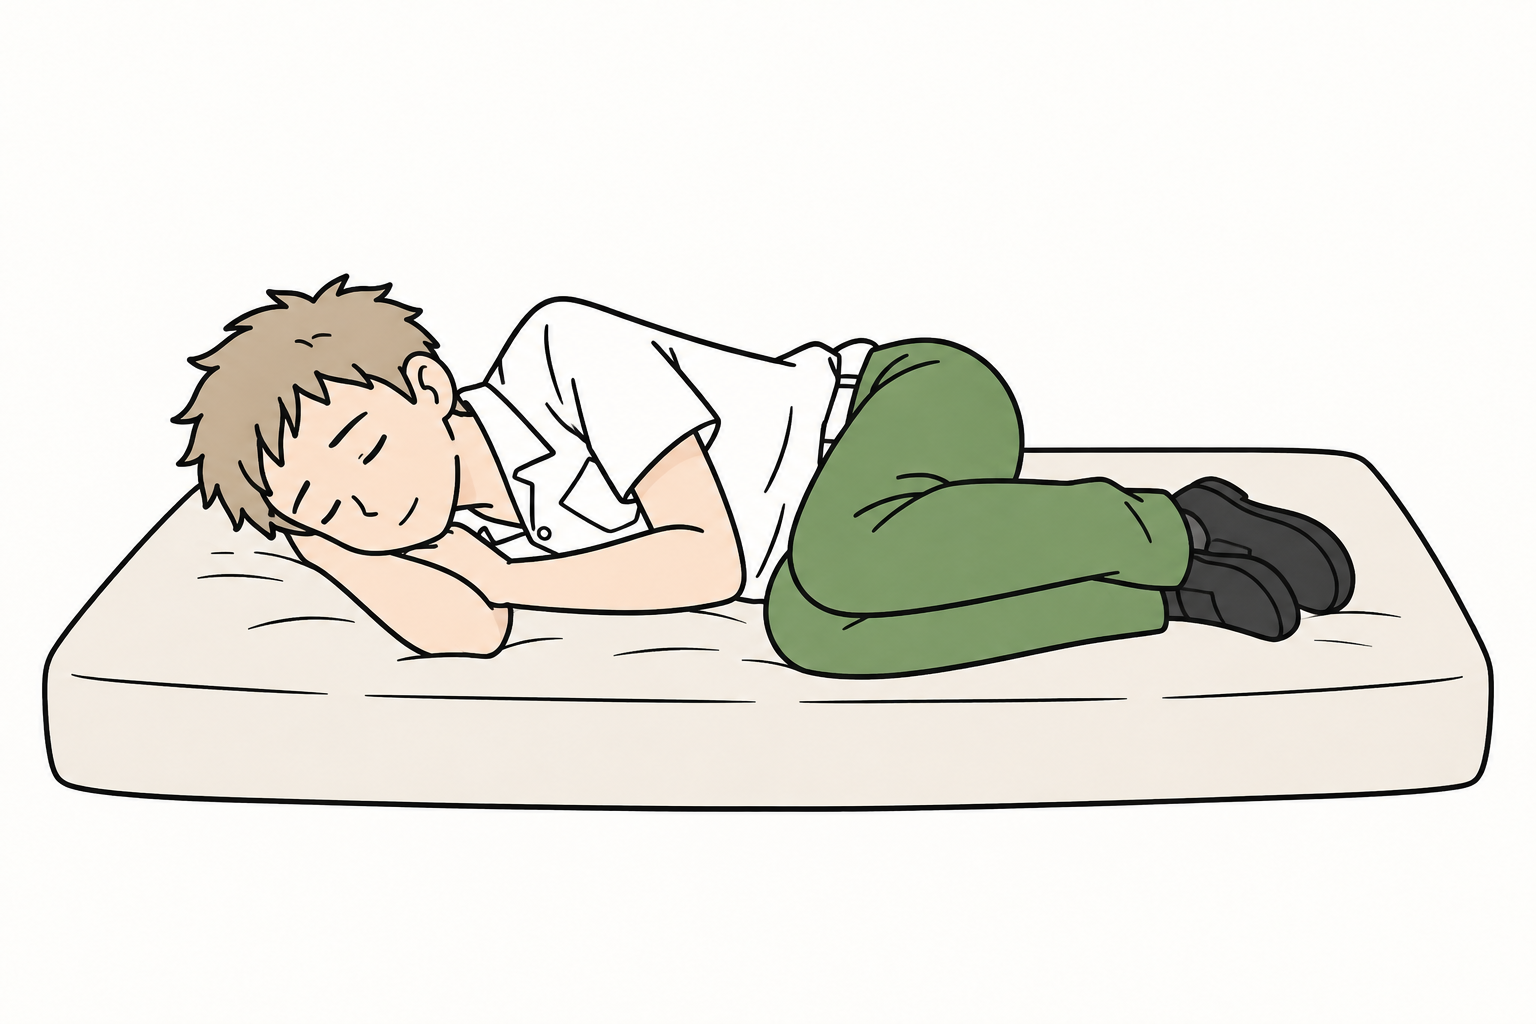
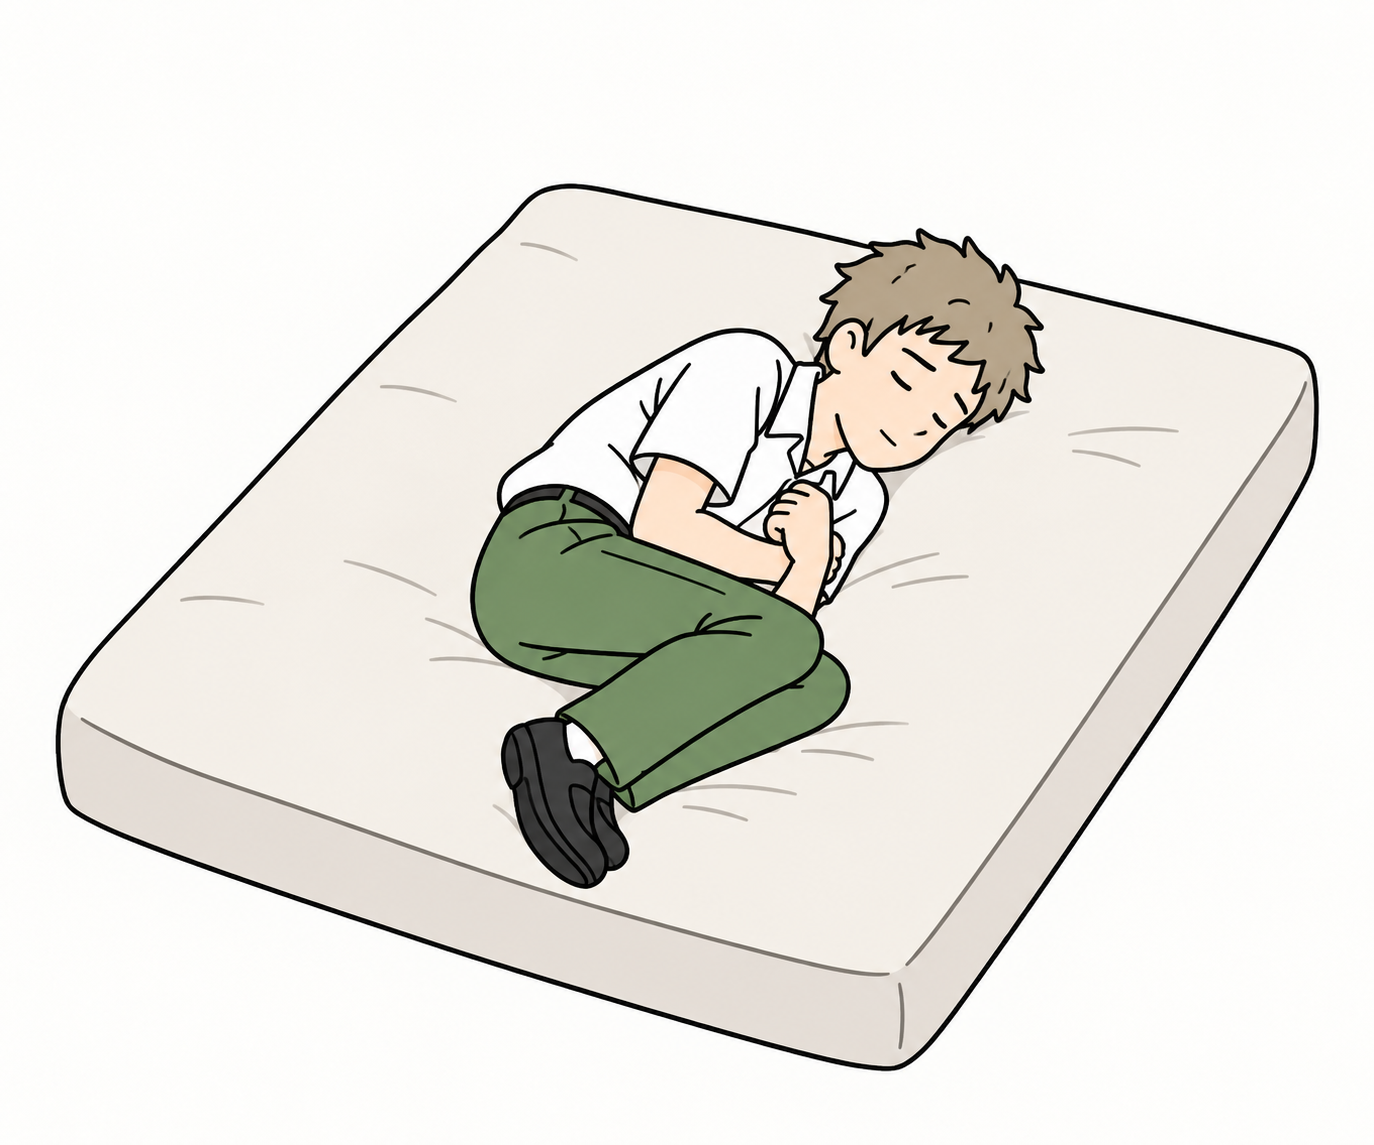
Initial Project

diff --git a/assets/characters/CHAR_05_Huang_Ming/action_review.md b/assets/characters/CHAR_05_Huang_Ming/action_review.md
@@ -4,21 +4,19 @@ Status: REVIEW_REQUIRED
 
 Compared against the approved `portrait.png`, `22.jpg`, and the requirements for `SHOT_039`.
 
-- **Side-lying pose fidelity to 22.jpg:** PASS. Huang Ming lies horizontally on his side on the mattress, with the head and shoulders lowered close to the support.
-- **Curled / fetal-like body silhouette:** PASS. The torso, bent knees, and tucked limbs form a compact but believable inward curl.
-- **Horizontal body orientation:** PASS. The body reads immediately as lying down, not seated or upright.
-- **Bent-knee geometry:** PASS. Both knees bend naturally toward the torso while preserving believable leg proportions.
-- **Arm placement:** PASS. The arms are folded/tucked naturally near the chest and mattress in a simple readable arrangement.
-- **Head and shoulder relaxation:** PASS. The neck, head, and shoulders are lowered and relaxed in the side-lying posture.
-- **Relieved / released facial expression:** PASS. Soft eyes, a softened brow, and a subtle peaceful mouth communicate relief and release.
-- **Peaceful emotional tone:** PASS. The pose reads as finally comfortable and free from pressure, without sadness, fear, or energetic cheerfulness.
-- **Huang Ming identity preservation:** PASS. The approved face identity, pale brown messy-short hair, youthful age, and simplified proportions are preserved.
-- **Clothing consistency:** PASS. The white short-sleeved collared shirt with chest pocket, green trousers, and dark shoes remain consistent, with natural side-lying folds.
-- **Mattress-support restraint:** PASS. Only one plain low-detail temporary pale mattress is present; no canonical mattress stack was generated.
-- **Suitability for later placement on PROP_06_MATTRESS_STACK:** PASS. The character and temporary support are isolated and the action can be transferred to the later canonical prop.
-- **Suitability for SHOT_039:** PASS. The action clearly communicates Huang Ming resting peacefully after a difficult life.
-- **Overall style consistency:** PASS. Clean 2D cartoon line art, black outlines, restrained flat colors, minimal shading, and low detail match the established production style.
+- **Directional pose fidelity to 22.jpg:** PASS. The body follows the source's directional flow: the head is toward the upper-right, the torso flows down-left, and the bent knees and feet curl toward the lower-left.
+- **Accidental mirroring check:** PASS. The pose is intentionally not mirrored into the previous head-left / feet-right arrangement; its head-to-leg direction matches the source reference.
+- **Side-lying body orientation:** PASS. Huang Ming lies on his side on the mattress with a low head and lowered shoulders; the body is not upright or seated.
+- **Curled leg geometry:** PASS. The knees are bent toward the torso and the legs form a compact inward fetal-like curl while retaining believable proportions.
+- **Head / shoulder placement:** PASS. The head is low near the mattress and the shoulders follow the relaxed side-lying posture.
+- **Relaxed relieved expression:** PASS. Softly closed eyes, softened facial muscles, and a subtle peaceful expression communicate relief and release without broad smiling or distress.
+- **Huang Ming identity preservation:** PASS. Light brown short messy hair, youthful face identity, and approved simplified proportions are preserved.
+- **Clothing consistency:** PASS. The white short-sleeved collared shirt with chest pocket, green trousers, and dark shoes remain consistent.
+- **Huang Ming only:** PASS. No Ah Da or other character is present; this remains a character action master rather than a full scene.
+- **Temporary mattress-support restraint:** PASS. One simple temporary pale mattress supports the body; no final mattress stack was generated.
+- **Suitability for later placement into SHOT_039:** PASS. The isolated side-lying action can be placed onto the canonical mattress-stack prop later.
+- **Overall style consistency:** PASS. Clean 2D cartoon line art, restrained flat colors, minimal shading, and low detail match the established project style.
 
-Failure checks: the asset is side-lying and curled; it is not an upright seated pose, seated knee-hug, kneeling pose, back-lying pose, standing pose, or generic sleeping pose. Identity, clothing, emotional tone, and mattress-support restraint are preserved.
+Failure checks: the asset is side-lying and directionally aligned to `22.jpg`; it is not mirrored, upright, seated while hugging knees, kneeling, flat on the back, standing, generic sleeping, sad, tense, or a multi-character scene.
 
 Human approval is required before this asset is marked APPROVED.
